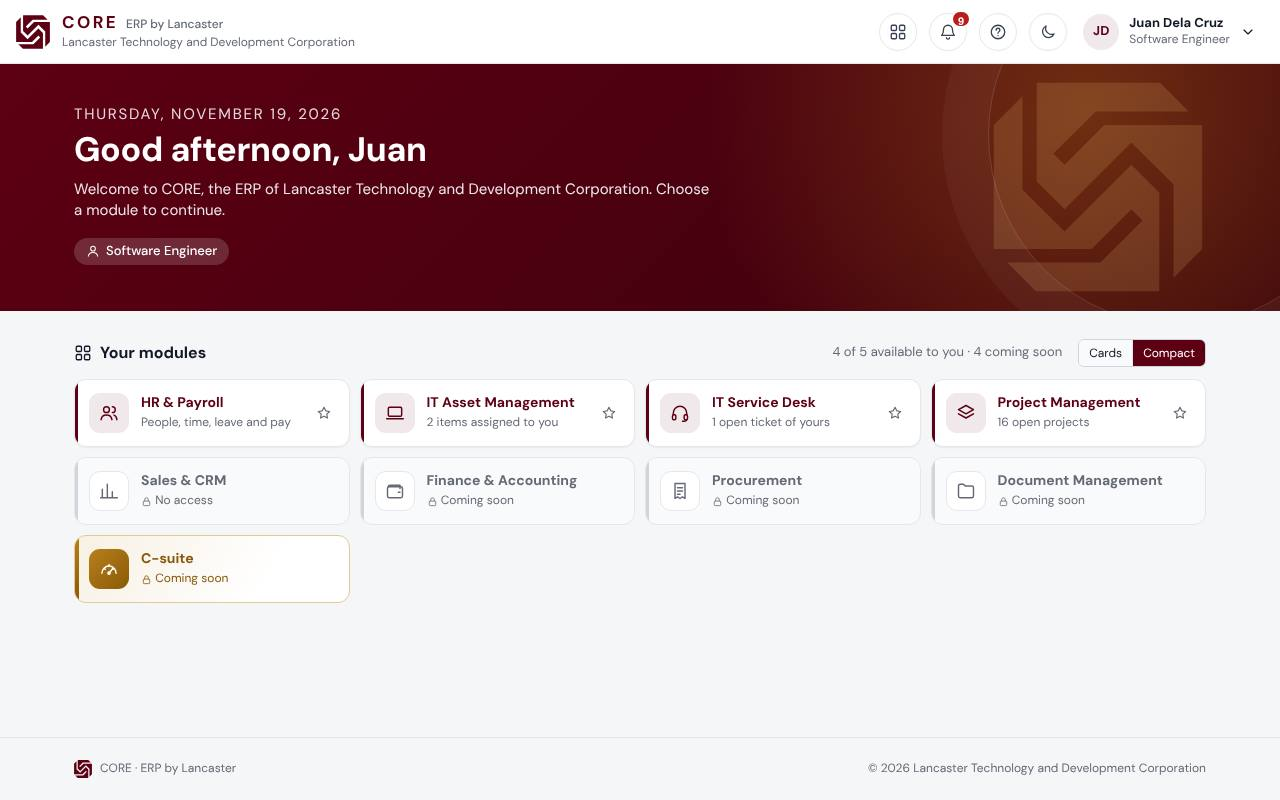
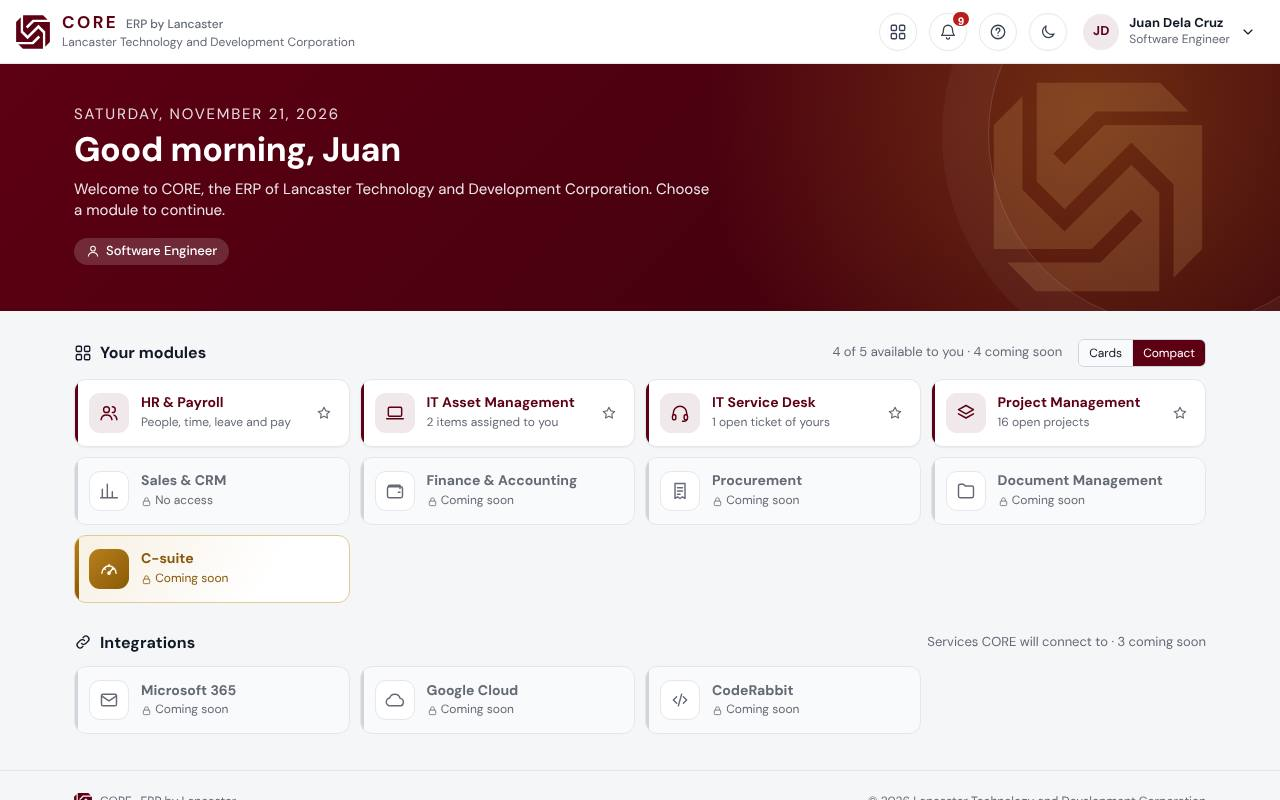
0.49.0-alpha: Integrations on the CORE home
- Under Your modules, an Integrations area with Microsoft 365, Google
  Cloud and CodeRabbit, each coming soon: cards with what each will do,
  or compact tiles following the Cards | Compact switch. Nothing to
  open or turn on yet.
- Integrations defined in shared/modules.js; a cloud icon.
- Getting started guide paragraph and screenshot, what's new, dev log,
  test.

Claude-Session: https://claude.ai/code/session_01JQ4oxiUA7CnD1ir2UC84uB

diff --git a/public/js/views/launcher.js b/public/js/views/launcher.js
@@ -3,7 +3,7 @@
 import { api } from '../api.js';
 import { ctx, can, mayUseModule, moduleOn, panelAccess } from '../state.js';
 import { companyRoleOf } from '/shared/profile.js';
-import { MODULES } from '../modules.js';
+import { MODULES, INTEGRATIONS } from '../modules.js';
 import { roleOverrides } from '/shared/roles.js';
 import { unseenCount } from './devlog.js';
 import { html, mount, toast } from '../ui.js';
@@ -138,6 +138,15 @@ export async function launcherView(el) {
       <button type="button" class="sys-pin" data-pin="${m.id}" aria-pressed="${on ? 'true' : 'false'}" aria-label="${on ? `Unpin ${m.name}` : `Pin ${m.name} to the front`}" title="${on ? 'Pinned to the front: click to unpin' : 'Pin to the front'}">${icon('star', 16)}</button></div>`;
   };
   const compactItems = () => html`${ordered().map(mini)}${soon.map(mini)}`;
+  // Integrations (0.49): the services CORE will connect to, under Your modules, as cards (or tiles
+  // in the compact view) coming soon, like the modules on the roadmap. Nothing to open yet.
+  const intCard = (i) => html`<div class="sys-card soon int-card" data-integration="${i.id}" aria-disabled="true" title="${i.name} is coming soon">
+      <span class="sys-top"><span class="sys-ic">${icon(i.glyph, 26)}</span><span class="badge gray">${icon('lock', 12)} Coming soon</span></span><span class="sys-tagline">${i.tagline}</span>
+      <strong class="sys-name" style="font-size:20px">${i.name}</strong>
+      <p>${i.description}</p>
+      <span class="sys-open">Not available yet</span>
+    </div>`;
+  const intMini = (i) => html`<div class="sys-mini soon" data-integration="${i.id}" aria-disabled="true" title="${i.name}: coming soon"><span class="sys-ic">${icon(i.glyph, 20)}</span><span class="grow"><strong>${i.name}</strong><small>${icon('lock', 11)} Coming soon</small></span></div>`;
   // Cards (the sliding row) or Compact (all at once): kept in this browser, like the theme. Until
   // someone chooses, a phone starts in Compact (0.47) and a larger screen in Cards.
   const VIEW_KEY = 'core-home-view';
@@ -180,6 +189,12 @@ export async function launcherView(el) {
       <div class="sys-compact" id="sys-compact" role="region" aria-labelledby="sys-heading">${compactItems()}</div>
     </section>
 
+    <section class="hub-wrap sys-section int-section${view === 'compact' ? ' compact' : ''}" id="int-section" aria-labelledby="int-heading">
+      <div class="card-head"><h2 id="int-heading">${icon('link')} Integrations</h2><span class="muted small">Services CORE will connect to · ${INTEGRATIONS.length} coming soon</span></div>
+      <div class="int-grid">${INTEGRATIONS.map(intCard)}</div>
+      <div class="sys-compact">${INTEGRATIONS.map(intMini)}</div>
+    </section>
+
     ${panelAccess()
       ? html`<section class="hub-wrap">
           <div class="card-head"><h2>${icon('settings')} Administration</h2><span class="muted small">Applies to every module</span></div>
@@ -209,6 +224,7 @@ export async function launcherView(el) {
       localStorage.setItem(VIEW_KEY, view);
     } catch {}
     section.classList.toggle('compact', view === 'compact');
+    el.querySelector('#int-section').classList.toggle('compact', view === 'compact');
     el.querySelectorAll('[data-view]').forEach((x) => {
       x.classList.toggle('active', x.dataset.view === view);
       x.setAttribute('aria-pressed', String(x.dataset.view === view));

diff --git a/test/integrations.test.js b/test/integrations.test.js
@@ -1,0 +1,29 @@
+// Integrations on the CORE home (0.49): Microsoft 365, Google Cloud and CodeRabbit, all coming soon,
+// in their own area under Your modules; none can be opened, pinned or turned on.
+import { test } from 'node:test';
+import assert from 'node:assert/strict';
+import fs from 'node:fs';
+import { INTEGRATIONS, MODULES, PINNABLE, SWITCHABLE } from '../shared/modules.js';
+
+test('the integrations are Microsoft 365, Google Cloud and CodeRabbit, all coming soon', () => {
+  assert.deepEqual(INTEGRATIONS.map((i) => i.name), ['Microsoft 365', 'Google Cloud', 'CodeRabbit']);
+  assert.ok(INTEGRATIONS.every((i) => i.status === 'soon' && i.description && i.tagline && i.glyph));
+  assert.equal(new Set(INTEGRATIONS.map((i) => i.code)).size, INTEGRATIONS.length, 'codes are unique');
+  for (const i of INTEGRATIONS) {
+    assert.ok(!MODULES.some((m) => m.id === i.id), `${i.id} is not a module`);
+    assert.ok(!PINNABLE.includes(i.id) && !SWITCHABLE.includes(i.id));
+  }
+  const icons = fs.readFileSync(new URL('../public/js/icons.js', import.meta.url), 'utf8');
+  for (const i of INTEGRATIONS) assert.match(icons, new RegExp(`\\n  ${i.glyph}: '`), `icon ${i.glyph}`);
+});
+
+test('the CORE home shows them under Your modules, as cards or compact tiles, with nothing to open', () => {
+  const home = fs.readFileSync(new URL('../public/js/views/launcher.js', import.meta.url), 'utf8');
+  assert.match(home, /id="int-section"/);
+  assert.ok(home.indexOf('id="sys-section"') < home.indexOf('id="int-section"'), 'below the modules');
+  assert.match(home, /INTEGRATIONS\.map\(intCard\)/);
+  assert.match(home, /INTEGRATIONS\.map\(intMini\)/);
+  const cards = home.slice(home.indexOf('const intCard'), home.indexOf('const intMini') + 400);
+  assert.doesNotMatch(cards, /<a |href=/, 'nothing to open yet');
+  assert.match(fs.readFileSync(new URL('../public/js/modules.js', import.meta.url), 'utf8'), /INTEGRATIONS/);
+});

diff --git a/shared/modules.js b/shared/modules.js
@@ -24,6 +24,17 @@ export const MODULES = [
     description: 'The executive dashboard: revenue and pipeline, headcount and payroll cost, projects at risk and service levels from every module, on one page.' },
 ];
 
+// Integrations: other services CORE will connect to, shown under Your modules on the CORE home
+// (0.49). All are on the roadmap; none can be turned on yet. `glyph` names an icon in icons.js.
+export const INTEGRATIONS = [
+  { id: 'microsoft365', code: 'INT-01', name: 'Microsoft 365', glyph: 'mail', status: 'soon', tagline: 'Sign-in, Outlook and Teams',
+    description: 'Sign in with Microsoft 365 accounts, send CORE\'s email through Outlook, put leave and project dates on Outlook calendars, and post notifications to Teams.' },
+  { id: 'googlecloud', code: 'INT-02', name: 'Google Cloud', glyph: 'cloud', status: 'soon', tagline: 'Sign-in, Drive and Cloud Storage',
+    description: 'Sign in with Google accounts, keep contract and project files in Google Drive, and keep CORE\'s backups in Google Cloud Storage.' },
+  { id: 'coderabbit', code: 'INT-03', name: 'CodeRabbit', glyph: 'code', status: 'soon', tagline: 'AI code review',
+    description: 'CodeRabbit\'s AI reviews of pull requests on the project tasks they belong to, so a project manager sees what is reviewed and ready to merge.' },
+];
+
 // Modules a person may pin to the front of their CORE home (live ones only), at most this many.
 export const PINNABLE = MODULES.filter((m) => m.status === 'live').map((m) => m.id);
 export function cleanFavoriteModules(list) {

diff --git a/public/css/styles.css b/public/css/styles.css
@@ -3396,3 +3396,9 @@ a.hub-role:hover { background: rgba(255, 255, 255, 0.26); }
 .soon-ic { flex: none; width: 56px; height: 56px; border-radius: 14px; display: grid; place-items: center; background: var(--surface-2); color: var(--muted); border: 1px solid var(--border); }
 .soon-list { margin: 0 0 12px; padding-left: 18px; display: grid; gap: 6px; color: var(--text-2); }
 @media (max-width: 560px) { .soon-card { flex-direction: column; gap: 12px; } }
+
+/* Integrations on the CORE home (0.49): services CORE will connect to, coming soon. Cards in a grid
+   (they are few, so no sliding row), or tiles in the compact view like the modules. */
+.int-grid { display: grid; grid-template-columns: repeat(auto-fill, minmax(min(260px, 100%), 1fr)); gap: 16px; }
+.int-grid .sys-card { min-height: 0; }
+.sys-section.compact .int-grid { display: none; }

diff --git a/shared/devlog.js b/shared/devlog.js
@@ -28,6 +28,16 @@ export const CHANGE_TYPES = { new: 'Added', improved: 'Changed', fixed: 'Fixed' 
 
 export const DEVLOG = [
   {
+    version: '0.49.0-alpha',
+    date: '2026-11-21',
+    title: 'Integrations on the CORE home',
+    modules: ['system'],
+    notes: 'Roadmap placeholders: the cards and what each integration will do; nothing connects to these services yet.',
+    changes: [
+      ['new', 'system', 'CORE home: an Integrations area under Your modules with Microsoft 365, Google Cloud and CodeRabbit, each coming soon, as cards or as compact tiles following the Cards | Compact switch.'],
+    ],
+  },
+  {
     version: '0.48.0-alpha',
     date: '2026-11-20',
     title: 'Data replication on the IT Asset Management roadmap',

diff --git a/public/js/icons.js b/public/js/icons.js
@@ -71,6 +71,7 @@ const P = {
   inbox: '<path d="M3 13l3-8h12l3 8v6H3z"/><path d="M3 13h5l1 3h6l1-3h5"/>',
   bell: '<path d="M6 9a6 6 0 0112 0c0 4.5 1.5 6.5 2.5 7.5h-17C4.5 15.5 6 13.5 6 9z"/><path d="M10 19.5a2 2 0 004 0"/>',
   userPlus: '<circle cx="9" cy="8" r="4"/><path d="M2 21c.6-4 3-6 7-6s6 1.5 7 4M19 8v6M16 11h6"/>',
+  cloud: '<path d="M7 19h10.5a4.5 4.5 0 0 0 .6-8.96A6.5 6.5 0 0 0 5.6 9.6 4.75 4.75 0 0 0 7 19z"/>',
   database: '<ellipse cx="12" cy="5" rx="8" ry="3"/><path d="M4 5v14c0 1.7 3.6 3 8 3s8-1.3 8-3V5M4 12c0 1.7 3.6 3 8 3s8-1.3 8-3"/>',
   shield: '<path d="M12 3l8 3v6c0 5-3.5 8-8 9-4.5-1-8-4-8-9V6z"/>',
   external: '<path d="M14 4h6v6M20 4l-9 9"/><path d="M18 14v5a1 1 0 01-1 1H5a1 1 0 01-1-1V7a1 1 0 011-1h5"/>',

diff --git a/public/js/modules.js b/public/js/modules.js
@@ -1,2 +1,2 @@
 // CORE's modules: defined in shared/modules.js (the server refuses a module that is turned off).
-export { MODULES, SWITCHABLE, MODULE_PARTS, moduleOn, moduleName } from '/shared/modules.js';
+export { MODULES, INTEGRATIONS, SWITCHABLE, MODULE_PARTS, moduleOn, moduleName } from '/shared/modules.js';

diff --git a/docs/guides/getting-started.md b/docs/guides/getting-started.md
@@ -44,6 +44,10 @@ To see every module at once, choose **Compact** beside **Your modules**: the mod
 
 ![The CORE home in the compact view](getting-started-compact.jpg)
 
+Under your modules, **Integrations** lists the services CORE will connect to, all marked **Coming soon**: **Microsoft 365** (sign-in, Outlook and Teams), **Google Cloud** (sign-in, Google Drive and Cloud Storage) and **CodeRabbit** (AI code review on project tasks). They are on the roadmap and cannot be opened or turned on yet. They follow the same **Cards | Compact** choice as your modules.
+
+![Integrations on the CORE home, coming soon](getting-started-integrations.jpg)
+
 3. Choose **Open HR & Payroll**. The module opens on your own page, **My Home**.
 4. Look at the left: the **side menu** of the module. At the top is the module's name and code (*HR & Payroll · MOD-01*). Under **My account** are your own pages. Juan also sees **Approvals**, because he supervises two people. At the bottom is **Send feedback**.
 

diff --git a/docs/guides/whats-new.md b/docs/guides/whats-new.md
@@ -9,6 +9,9 @@ order: 2
 
 ## November 2026
 
+### Integrations on the CORE home (0.49)
+- Under **Your modules**, a new **Integrations** area shows the services CORE will connect to, all coming soon: **Microsoft 365**, **Google Cloud** and **CodeRabbit**. See [Getting started](getting-started#walkthrough).
+
 ### Data replication on the roadmap (0.48)
 - **IT Asset Management** has a **Data replication** item in its side menu, marked **Soon**: a second, up-to-date copy of the asset records in another location. It is not available yet; its page says what it will do. See [Data replication](it-assets#data-replication-coming-soon).
 
